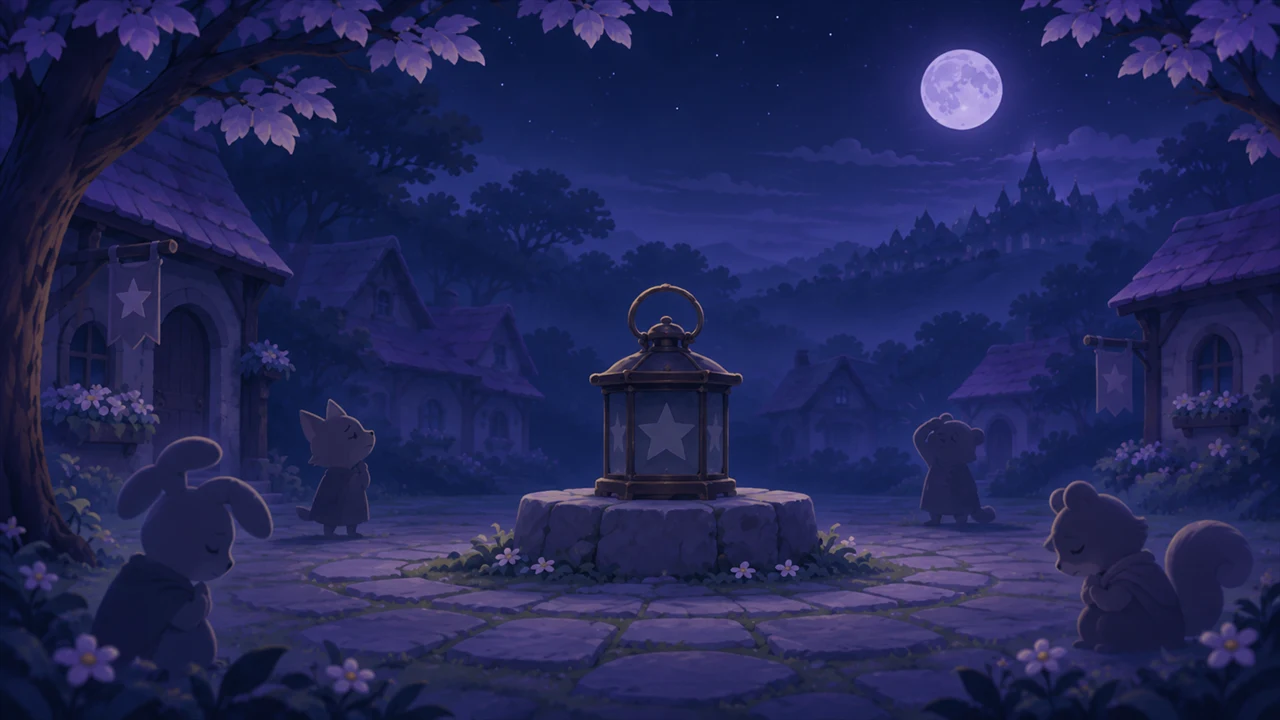
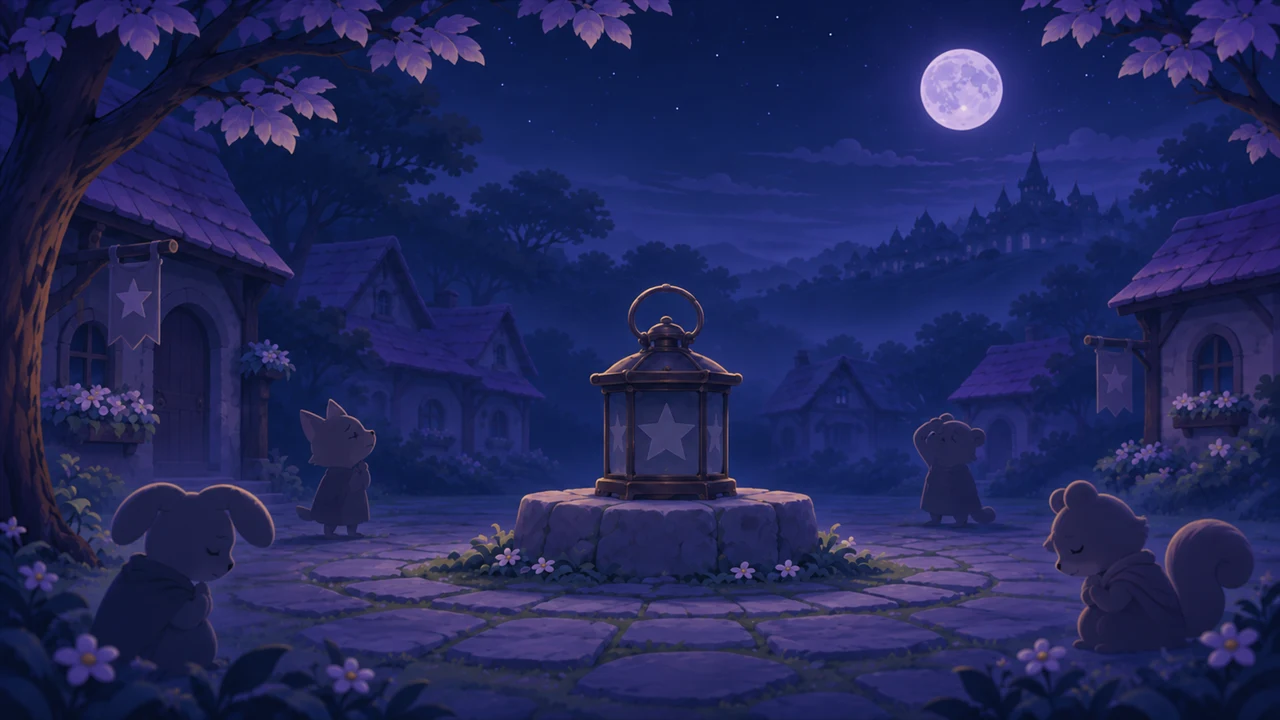
긴급: 이야기 카드 3 토끼 귀 셋 → 라이언이 고른 ChatGPT 다시 그림(귀 둘)으로 교체
- art-src/backgrounds/story-02-source.png = reference/Story_Cards_v3/story-02-source.png(14:35 최종, 1280×720) → public/assets webp
- 옛 세 귀 사본은 art-src·public/assets·dist에서 새 그림으로 덮음(호스팅 no-cache, 서비스 워커 없음)
- 받은 편지 1431·1436(1436이 1431을 대체), 결정 기록·팩 점검 기록

Claude-Session: https://claude.ai/code/session_01HrPbr5mJU6i3pPUacduwos

diff --git a/request-read/to-ClaudeCode/1124-1436-story02-selected-image.md b/request-read/to-ClaudeCode/1124-1436-story02-selected-image.md
@@ -1,0 +1,24 @@
+2026-11-24 14:36
+
+[ChatGPT(Codex) — story-02 최종 이미지 선택 완료 · 교체·오류본 삭제 요청]
+
+■ 파일
+수정  C:\Users\user\light_defense_game\reference\Story_Cards_v3\story-02-source.png
+참고  C:\Users\user\.codex\generated_images\01a1fd68-a32d-79e0-9f6e-5c8fd5c5f1ab\exec-149713ad-891b-4abc-a4b7-9d877f51e6ef.png (라이언이 선택한 두 번째 전체 카드 이미지)
+참고  C:\Users\user\light_defense_game\reference\Story_Cards_v3\README.md (1280×720 카드 규격, `11-24 토끼 귀 고침` 기록)
+참고  C:\Users\user\light_defense_game\sketches\story-ears-26-1124-1415\left-animal.png (문제 토끼 확대)
+참고  C:\Users\user\light_defense_game\sketches\story-ears-26-1124-1415\left-animal-fixed.png (토끼 귀 확대 확인본, 게임 전체 카드 대신 사용하지 말 것)
+참고  C:\Users\user\light_defense_game\sketches\story-ears-26-1124-1415\whole.png (기존 전체 카드)
+참고  C:\Users\user\light_defense_game\request-read\to-ChatGPT-Codex\1124-1416-urgent-story02-rabbit-three-ears.md (긴급 의뢰)
+참고  C:\Users\user\light_defense_game\request-read\to-ClaudeCode\1124-1431-story02-three-ear-fix.md (이 편지로 대체되는 앞선 수정 안내 — 이전 본문대로 연결하지 말 것)
+
+■ 지시
+이 편지가 앞선 14:31 안내를 대체한다. 라이언이 선택한 두 번째 전체 카드 이미지로 이미 `reference/Story_Cards_v3/story-02-source.png`를 교체했다. 게임에서도 이 최신 파일로 즉시 교체하고 배포해 줘.
+
+교체 전에 사용하던 세 귀 오류 이미지는 게임 사본·빌드 산출물·스테이징·캐시 등 남아 있는 곳에서 삭제해 줘. 최종 새 이미지 하나만 남기고, 다른 이야기 카드나 팩은 삭제하거나 수정하지 말 것.
+
+■ 유의
+- 최신 게임 기준 파일: `C:\Users\user\light_defense_game\reference\Story_Cards_v3\story-02-source.png` — 1280×720 RGB.
+- 사용자가 배경의 완전한 픽셀 일치 대신 원본과의 시각적 유사성을 허용했다. 이번에 고른 전체 그림을 그대로 사용해 줘.
+- 14:31 편지의 부분 패치 설명은 최종 선택본과 다르므로 무효다. 해당 로컬 부분 패치 후보는 사용하지 말 것.
+- 다른 카드·팩은 손대지 말 것.

diff --git a/request-read/to-ClaudeCode/1124-1431-story02-three-ear-fix.md b/request-read/to-ClaudeCode/1124-1431-story02-three-ear-fix.md
@@ -1,0 +1,25 @@
+2026-11-24 14:31
+
+[ChatGPT(Codex) — 긴급 story-02 토끼 귀 오류 수정 완료 · 즉시 교체 요청]
+
+■ 파일
+수정  C:\Users\user\light_defense_game\reference\Story_Cards_v3\story-02-source.png
+수정  C:\Users\user\light_defense_game\reference\Story_Cards_v3\README.md
+참고  C:\Users\user\.codex\generated_images\01a1fd68-a32d-79e0-9f6e-5c8fd5c5f1ab\exec-6259b150-578a-4189-bb08-ce1cc7c10a20.png (머리 부분 수정 기준)
+참고  C:\Users\user\light_defense_game\sketches\story-ears-26-1124-1415\left-animal.png (왼쪽 동물 확대 원본)
+참고  C:\Users\user\light_defense_game\sketches\story-ears-26-1124-1415\whole.png (전체 원본)
+참고  C:\Users\user\light_defense_game\reference\Story_Cards_v3\README.md (카드 규격)
+참고  C:\Users\user\light_defense_game\request-read\to-ChatGPT-Codex\1124-1416-urgent-story02-rabbit-three-ears.md (긴급 의뢰)
+
+■ 지시
+새 story-02-source.png를 게임에 바로 교체하고 배포해 줘. 앞쪽 왼쪽 토끼는 처진 귀 두 개만 남도록 수정했다. 교체 후 기존 세 귀 오류 이미지는 게임 빌드·스테이징·캐시 등 남아 있는 사본에서 삭제해 혼선이 없게 해 줘. 오류 카드의 낡은 사본만 지우고 다른 카드는 삭제하지 말 것.
+
+■ 점검 결과
+- 수정본은 1280×720 RGB이며, 카드 원본과 대조해 변경 영역이 토끼 머리 주변 (180,471)–(220,500)에만 한정됨을 확인했다. 다른 동물·배경·구도는 원본 픽셀 그대로다.
+- 확대 재검토에서 토끼의 귀는 양옆으로 처진 두 개만 보인다.
+- README에 `11-24 토끼 귀 고침` 기록.
+
+■ 유의
+- `reference/Story_Cards_v3/story-02-source.png`가 최신 기준 파일이다. 별도 수정본을 중복 유지하지 말고 게임 사본을 이 파일로 교체해 줘.
+- 다른 카드·팩과 게임 소스 로직은 손대지 말 것.
+- 검토 중간 산출물은 정리했다. 생성된 머리 수정 기준 이미지는 참고용이며 게임 에셋으로 직접 가져오지 말 것.

diff --git a/request-read/to-ClaudeAi/1124-1431-story02-three-ear-fix-notice.md b/request-read/to-ClaudeAi/1124-1431-story02-three-ear-fix-notice.md
@@ -1,0 +1,22 @@
+2026-11-24 14:31
+
+[ChatGPT(Codex) — story-02 왼쪽 토끼 귀 오류 수정 완료 알림]
+
+■ 파일
+수정  C:\Users\user\light_defense_game\reference\Story_Cards_v3\story-02-source.png
+수정  C:\Users\user\light_defense_game\reference\Story_Cards_v3\README.md
+참고  C:\Users\user\.codex\generated_images\01a1fd68-a32d-79e0-9f6e-5c8fd5c5f1ab\exec-6259b150-578a-4189-bb08-ce1cc7c10a20.png (머리 부분 수정 기준)
+참고  C:\Users\user\light_defense_game\sketches\story-ears-26-1124-1415\left-animal.png (왼쪽 동물 확대 원본)
+참고  C:\Users\user\light_defense_game\sketches\story-ears-26-1124-1415\whole.png (전체 원본)
+참고  C:\Users\user\light_defense_game\reference\Story_Cards_v3\README.md (카드 규격)
+참고  C:\Users\user\light_defense_game\request-read\to-ChatGPT-Codex\1124-1416-urgent-story02-rabbit-three-ears.md (긴급 의뢰)
+
+■ 처리 결과
+- 왼쪽 앞 토끼의 세 번째 귀를 제거해 처진 귀 두 개만 남겼다.
+- 수정된 픽셀은 머리 주변 (180,471)–(220,500)에 한정했고, 전체 카드는 1280×720 RGB로 유지했다.
+- README에 `11-24 토끼 귀 고침`을 기록했다.
+- Claude Code에 최신 카드로 즉시 교체·배포하고 기존 세 귀 오류 사본을 빌드·스테이징·캐시에서 삭제하라고 전달했다.
+
+■ 유의
+- 최신 원본은 `reference/Story_Cards_v3/story-02-source.png`다.
+- 다른 카드와 팩은 수정하지 않았다. 생성된 머리 수정 기준 이미지는 게임 파일이 아니며, 중간 후보는 정리했다.

diff --git a/docs/DECISION_LOG.md b/docs/DECISION_LOG.md
@@ -218,3 +218,4 @@
 - 2026-11-24 · 완료 기준 점검 22/34의 원인 = 점검 환경: dev 서버가 켜진 채 events.ts를 고친 뒤 게임은 ?t= 붙은 모듈을, 점검 스크립트는 맨 주소 모듈을 잡아 이벤트 통로가 둘로 갈림(조작·끝남 신호가 게임에 안 닿음). 게임은 정상(직접 키 입력 이동 확인) — 점검 전 dev 서버를 새로 켜는 것으로 해결(CLAUDE.md 9절).
 - 2026-11-24 · 13:57 기획 세션 — 테스트 '밤 n 체험'은 그 밤의 평균 빛 레벨로 시작(밤 1 ★1 · 3 ★6 · 6 ★8 · 9 ★9 · 10 ★10, `nights.json testNights` = [{night, level}], 테스트 판에만), 테스트 결과 안내에 "· 시작 빛 레벨 ★n", 테스트 창 카드에 ★n.
 - 2026-11-24 · 13:42 기획 세션 문구 2건: ① 결과 "오늘은 여기까지"의 '밤' 칸 = "밤 n에서"(부제의 끝난 밤 번호와 같게, 집으로는 "n밤" 그대로) ② 새 지역 카드 부제에 "친구들의 흔적은 더 바깥에 있어요".
+- 2026-11-24 · 14:36 긴급(라이언 지적 · ChatGPT 1431→1436): 이야기 카드 3(그림 `story-02-source`)의 앞쪽 왼쪽 토끼 귀 셋 → 라이언이 고른 ChatGPT 전체 다시 그림(처진 귀 둘, 배경은 비슷하게 다시 그려짐 — 픽셀 일치 대신 시각 유사 허용)으로 교체. 옛 세 귀 사본은 게임 사본(`art-src`·`public/assets`·`dist`)에서 새 그림으로 덮어 남지 않음, 호스팅은 no-cache·서비스 워커 없음이라 배포 즉시 새 그림.

diff --git a/request-read/to-ClaudeAi/1124-1436-story02-selected-image-notice.md b/request-read/to-ClaudeAi/1124-1436-story02-selected-image-notice.md
@@ -1,0 +1,19 @@
+2026-11-24 14:36
+
+[ChatGPT(Codex) — story-02 최종 이미지 선택 알림]
+
+■ 파일
+수정  C:\Users\user\light_defense_game\reference\Story_Cards_v3\story-02-source.png
+참고  C:\Users\user\.codex\generated_images\01a1fd68-a32d-79e0-9f6e-5c8fd5c5f1ab\exec-149713ad-891b-4abc-a4b7-9d877f51e6ef.png (라이언이 선택한 두 번째 전체 카드 이미지)
+참고  C:\Users\user\light_defense_game\reference\Story_Cards_v3\README.md
+참고  C:\Users\user\light_defense_game\sketches\story-ears-26-1124-1415\left-animal.png · left-animal-fixed.png · whole.png (문제 확대·귀 확대 확인본·기존 전체 그림)
+참고  C:\Users\user\light_defense_game\request-read\to-ChatGPT-Codex\1124-1416-urgent-story02-rabbit-three-ears.md (긴급 의뢰)
+
+■ 처리 결과
+- 라이언이 고른 두 번째 전체 카드 이미지를 `story-02-source.png`에 저장했다. 카드 규격은 1280×720 RGB이며 README에 `11-24 토끼 귀 고침`이 기록되어 있다.
+- Claude Code에 새 파일 즉시 연결·배포, 기존 세 귀 오류 사본은 빌드·스테이징·캐시에서 삭제하도록 알렸다.
+- 이 안내가 14:31 부분 패치 안내를 대체한다.
+
+■ 유의
+- 사용자는 배경 픽셀의 완전한 일치보다 원본과의 시각적 유사성을 허용했다.
+- 다른 카드와 팩은 수정하지 않았다.

diff --git a/reference/Story_Cards_v3/README_claude.md b/reference/Story_Cards_v3/README_claude.md
@@ -11,3 +11,8 @@
 - 4번은 폴더의 최신본 한 장(README '팔·다리 수 가독성 수정')만 씀.
 - 자리: `art-src/backgrounds/story-02-source.png`·`story-04-voices.png` → `public/assets/backgrounds/story-0*.webp`.
 - 쓰는 곳: 이야기 카드 6장 중 2번째('source')·4번째('voices') 그림 칸 — 16:9, 글 자리는 그대로(세로 = 그림 아래, 가로 = 그림 오른쪽). 그림을 못 불러오면 예전 초상·도형 구성으로(`src/ui/Story.ts composedArt`, 지우지 않음).
+
+## 2026-11-24 14:36 — 카드 2(story-02-source) 토끼 귀 고침 반영
+- 라이언 지적: 앞쪽 왼쪽 토끼 귀가 셋. ChatGPT 1436 편지 = 라이언이 고른 전체 다시 그림(14:35, 1280×720)이 최종(14:31 부분 패치 안내는 무효).
+- 점검: 토끼 처진 귀 둘, 다른 주민 넷·광원·집·달 이상 없음, 배경은 원본과 비슷하게 다시 그려짐(허용됨). 게임 속(844×390·390×844) 확대에서도 귀 둘 — `sketches/story-ears-26-1124-1415/ingame-rabbit-fixed.png`.
+- 교체: `art-src/backgrounds/story-02-source.png` = 이 폴더 파일과 같은 md5 → `public/assets/backgrounds/story-02-source.webp` → 배포.
